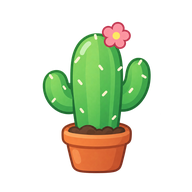
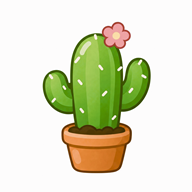
Add files via upload
아이콘 바꾸기+배경

Changed region(s): [[0.2188, 0.125, 0.8125, 0.9062], [0.625, 0.125, 0.6562, 0.1562], [0.5938, 0.0938, 0.625, 0.125]]

diff --git a/index.html b/index.html
@@ -3,25 +3,25 @@
 <meta charset="utf-8">
 <meta name="viewport" content="width=device-width, initial-scale=1, viewport-fit=cover">
 <link rel="manifest" href="manifest.webmanifest">
-<meta name="theme-color" content="#1f6f5c">
+<meta name="theme-color" id="metaTheme" content="#1f6f5c">
 <link rel="apple-touch-icon" href="icon-192.png">
 <style>:root{color-scheme:light;padding-top:env(safe-area-inset-top,0px);padding-bottom:env(safe-area-inset-bottom,0px)}body{margin:0}[hidden]{display:none!important}</style>
 <title>나의 할 일</title>
 <style>
 /* 레이아웃: 위에 기간 제목과 이전/다음, 그 아래 일간·주간·월간 탭, 본문은 한 단 */
 :root {
-  --bg: #f4f6f4;
+  --bg: #ffffff;
   --surface: #ffffff;
-  --chip: #eceeed;
+  --chip: #f2f3f2;
   --fg: #1c2421;
   --muted: #667570;
-  --line: #dde3df;
+  --line: #e4e7e5;
   --accent: #1f6f5c;
   --accent-fg: #ffffff;
   --danger: #b3382c;
   --sat: #1a73e8;
   --sun: #e5484d;
-  --font: system-ui, -apple-system, "Apple SD Gothic Neo", "Malgun Gothic", sans-serif;
+  --font: sans-serif;
 }
 @media (prefers-color-scheme: dark) {
   :root:not([data-theme="light"]) {
@@ -179,6 +179,13 @@ textarea { min-height: 90px; font-size: 13px; font-family: ui-monospace, Menlo, 
 .mc-day.cur { background: var(--chip); font-weight: 700; }
 .mc-day.today { box-shadow: inset 0 0 0 2px var(--accent); }
 .mc-day:disabled { opacity: .3; cursor: default; }
+.demo-chk {
+  width: 26px; height: 26px; border-radius: 6px; display: grid; place-items: center; flex: none;
+}
+.demo-chk::after {
+  content: ""; width: 6px; height: 11px; border: solid currentColor; border-width: 0 2.5px 2.5px 0;
+  transform: translateY(-1px) rotate(45deg);
+}
 </style>
 </head><body>
 
@@ -224,6 +231,14 @@ textarea { min-height: 90px; font-size: 13px; font-family: ui-monospace, Menlo, 
     return (0.299 * r + 0.587 * g + 0.114 * b) / 255 > 0.62 ? '#1c2421' : '#ffffff';
   }
 
+  function applyTheme(accent) {
+    var c = okColor(accent || '#1f6f5c');
+    document.documentElement.style.setProperty('--accent', c);
+    document.documentElement.style.setProperty('--accent-fg', textOn(c));
+    var m = $('metaTheme');
+    if (m) m.setAttribute('content', c);
+  }
+
   function h(tag, props) {
     var el = document.createElement(tag);
     if (props) Object.keys(props).forEach(function (k) {
@@ -257,6 +272,7 @@ textarea { min-height: 90px; font-size: 13px; font-family: ui-monospace, Menlo, 
     var s = o.settings || {};
     return { v: 2, cats: cats, todos: todos, settings: {
       pastColor: okColor(s.pastColor || '#3f9b84'),
+      accentColor: okColor(s.accentColor || '#1f6f5c'),
       lastBackup: typeof s.lastBackup === 'string' ? okDate(s.lastBackup) : ''
     } };
   }
@@ -271,7 +287,7 @@ textarea { min-height: 90px; font-size: 13px; font-family: ui-monospace, Menlo, 
     return { v: 2, cats: cats, todos: [
       { id: uid() + 'x', cat: cats[0].id, date: t, text: '예시: 글자를 누르면 수정, ×를 누르면 삭제', done: false },
       { id: uid() + 'y', cat: cats[1].id, date: t, text: '예시: 체크하면 월간 달력에 개수로 표시', done: true }
-    ], settings: { pastColor: '#3f9b84', lastBackup: '' } };
+    ], settings: { pastColor: '#3f9b84', accentColor: '#1f6f5c', lastBackup: '' } };
   }
   function load() {
     try {
@@ -281,6 +297,8 @@ textarea { min-height: 90px; font-size: 13px; font-family: ui-monospace, Menlo, 
     return null;
   }
   var S = load() || seed();
+  applyTheme(S.settings.accentColor);
+
   function persist() {
     try { localStorage.setItem(KEY, JSON.stringify(S)); $('banner').hidden = true; }
     catch (e) { $('banner').hidden = false; }
@@ -299,7 +317,7 @@ textarea { min-height: 90px; font-size: 13px; font-family: ui-monospace, Menlo, 
   }
 
   /* ---------- 상태 ---------- */
-  var view = 'day', cursor = todayStr(), adding = null, focusAdd = false;
+  var view = 'week', cursor = todayStr(), adding = null, focusAdd = false;
 
   function periodTitle() {
     var d = parse(cursor);
@@ -597,99 +615,4 @@ textarea { min-height: 90px; font-size: 13px; font-family: ui-monospace, Menlo, 
       grid.textContent = '';
       for (i = 0; i < dow(first); i++) grid.append(h('span'));
       for (i = 1; i <= n; i++) (function (ds, num) {
-        var w = dow(ds);
-        grid.append(h('button', { type: 'button',
-          class: 'mc-day' + (ds === current ? ' cur' : '') + (ds === todayStr() ? ' today' : '') + (w === 5 ? ' sat' : '') + (w === 6 ? ' sun' : ''),
-          disabled: disabled(ds), 'aria-label': m + '월 ' + num + '일', onclick: function () { onPick(ds); } }, String(num)));
-      })(ym + '-' + pad(i), i);
-    }
-    draw();
-    return wrap;
-  }
-  function toast(m) {
-    var el = $('toast'); el.textContent = m; el.hidden = false;
-    clearTimeout(toast.t); toast.t = setTimeout(function () { el.hidden = true; }, 2600);
-  }
-  function openTodoSheet(t) {
-    var c = S.cats.filter(function (x) { return x.id === t.cat; })[0];
-    var inp = h('input', { type: 'text', id: 'todoText', maxlength: '200', value: t.text, 'aria-label': '할 일 내용' });
-    var msg = h('p', { class: 'msg', role: 'status' });
-    function applyText() { var v = inp.value.trim(); if (v) t.text = v; }
-    function saveClose() { applyText(); persist(); closeSheet(); render(); }
-    function moveTo(ds) {
-      if (ds === t.date) { saveClose(); return; }
-      if (c && !catVisible(c, ds)) { msg.textContent = '이 카테고리는 ' + short(ds) + '에는 없어서 옮길 수 없어요.'; return; }
-      applyText(); t.date = ds; persist(); closeSheet(); render(); toast('옮겼어요 · ' + short(ds));
-    }
-    inp.addEventListener('keydown', function (e) {
-      if (e.key === 'Enter' && !e.isComposing) { e.preventDefault(); setTimeout(saveClose, 0); }
-    });
-    var now = todayStr(), tomorrow = addD(now, 1);
-    var cal = calPicker(t.date, t.date, function (ds) { return !!c && !catVisible(c, ds); }, function (ds) { moveTo(ds); });
-    cal.hidden = true;
-    var otherBtn = h('button', { type: 'button', onclick: function () {
-      cal.hidden = !cal.hidden;
-      if (!cal.hidden) { try { cal.scrollIntoView({ block: 'nearest', behavior: 'smooth' }); } catch (e) {} }
-    } }, '다른 날로');
-    var quick = t.date === now
-      ? h('button', { type: 'button', onclick: function () { moveTo(tomorrow); } }, '내일로 (' + short(tomorrow) + ')')
-      : h('button', { type: 'button', onclick: function () { moveTo(now); } }, '오늘로 (' + short(now) + ')');
-    openSheet([
-      h('h2', null, '할 일'),
-      inp,
-      h('p', null, (c ? c.name + ' · ' : '') + short(t.date)),
-      h('div', { class: 'btns' }, quick, otherBtn),
-      cal,
-      msg,
-      h('div', { class: 'btns' },
-        h('button', { type: 'button', class: 'primary', onclick: saveClose }, '저장'),
-        h('button', { type: 'button', onclick: closeSheet }, '취소'))
-    ], null);
-  }
-
-  function openSettings() {
-    var pc = S.settings.pastColor;
-    var demo = h('span', { class: 'circle' }, '3');
-    function paintDemo() { demo.style.background = pc; demo.style.color = textOn(pc); }
-    paintDemo();
-    var cf = colorField(pc, function (v) { pc = v; S.settings.pastColor = v; persist(); paintDemo(); render(); });
-    var ta = h('textarea', { id: 'backupBox', placeholder: '복원할 때는 백업 내용을 여기에 붙여넣으세요', 'aria-label': '백업 내용' });
-    var msg = h('p', { class: 'msg', role: 'status' });
-    var armed = false;
-    var copyBtn = h('button', { type: 'button' }, '백업 복사');
-    var restoreBtn = h('button', { type: 'button' }, '붙여넣은 내용으로 복원');
-    var last = h('p', null, S.settings.lastBackup ? '마지막 백업: ' + S.settings.lastBackup : '아직 백업한 적이 없습니다.');
-    copyBtn.addEventListener('click', function () {
-      S.settings.lastBackup = todayStr(); persist();
-      var json = JSON.stringify(S); ta.value = json;
-      last.textContent = '마지막 백업: ' + S.settings.lastBackup;
-      function fallback() { ta.focus(); ta.select(); msg.textContent = '복사가 막혀 있어 내용을 선택해 두었습니다. 직접 복사해 주세요.'; }
-      try { navigator.clipboard.writeText(json).then(function () { msg.textContent = '백업을 복사했습니다. 메모장이나 메시지에 붙여 두세요.'; }, fallback); }
-      catch (e) { fallback(); }
-    });
-    restoreBtn.addEventListener('click', function () {
-      var data = null;
-      try { data = sanitize(JSON.parse(ta.value)); } catch (e) {}
-      if (!data) { msg.textContent = '백업 내용을 읽을 수 없습니다. 복사한 내용 전체를 붙여넣었는지 확인해 주세요.'; armed = false; restoreBtn.textContent = '붙여넣은 내용으로 복원'; return; }
-      if (!armed) { armed = true; restoreBtn.textContent = '복원 확인'; msg.textContent = '지금 데이터가 백업 내용으로 바뀝니다. 계속하려면 한 번 더 누르세요.'; return; }
-      S = data; persist(); cursor = todayStr(); adding = null; render(); closeSheet();
-    });
-    openSheet([
-      h('h2', null, '설정과 백업'),
-      h('label', null, '지난 날짜 동그라미 색 (월간·주간)'),
-      h('div', { style: 'display:flex;gap:14px;align-items:center;flex-wrap:wrap' }, demo, cf),
-      h('h2', { style: 'margin-top:8px' }, '백업'),
-      h('p', null, '데이터는 서버에 올라가지 않고 이 폰의 브라우저에만 저장됩니다. 브라우저 데이터를 지우거나 다른 주소로 옮기기 전에 백업을 복사해 두세요.'),
-      last, ta, h('div', { class: 'btns' }, copyBtn, restoreBtn), msg,
-      h('div', { class: 'btns' }, h('button', { type: 'button', class: 'primary', onclick: closeSheet }, '닫기'))
-    ]);
-  }
-  $('openSettings').addEventListener('click', openSettings);
-
-  persist();
-  render();
-})();
-</script>
-
-<script>if('serviceWorker' in navigator){window.addEventListener('load',function(){navigator.serviceWorker.register('sw.js').catch(function(){});});}</script>
-</body></html>
+        var w = dow(
